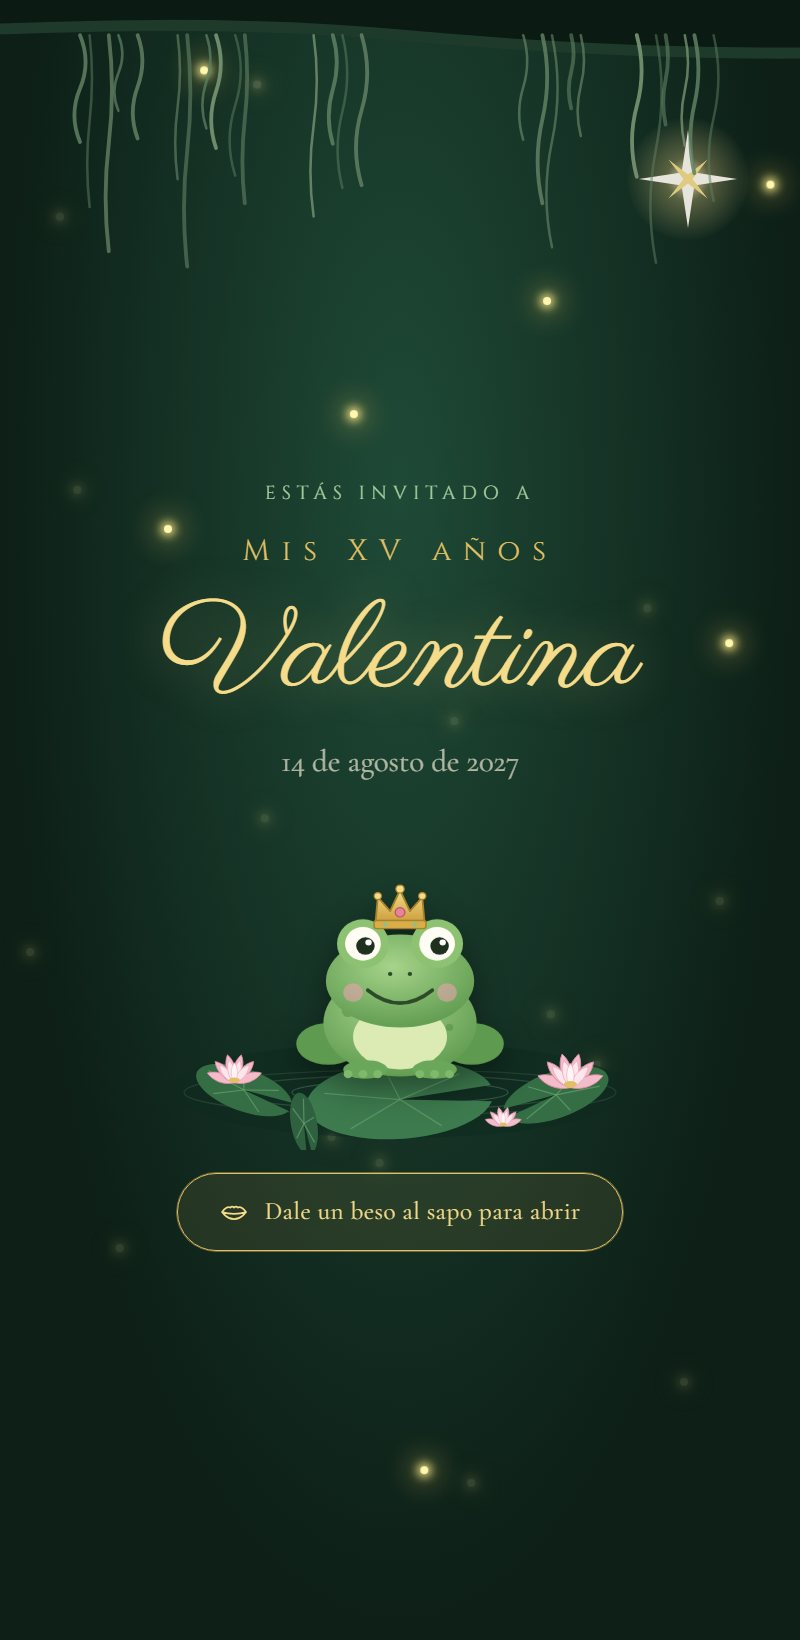
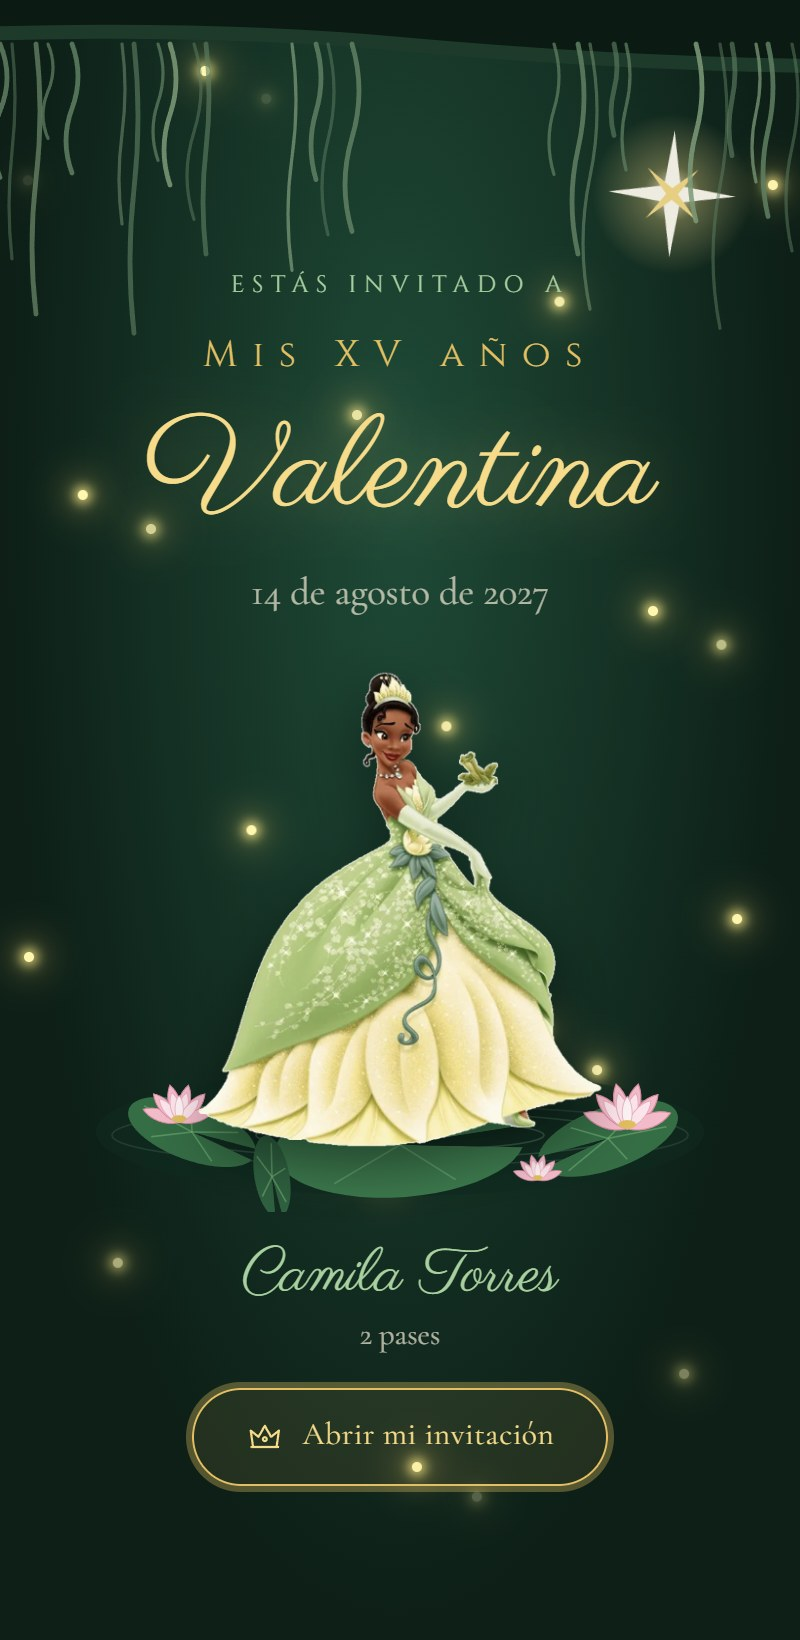
Princesa sapo: nueva captura con Tiana y descripción actualizada

diff --git a/src/config.ts b/src/config.ts
@@ -189,16 +189,16 @@ export const proyectos: Proyecto[] = [
       titulo: "Una Noche en el Bayou",
       tematica: "La princesa y el sapo",
       paquete: "personalizada",
-      palabrasClave: ["princesa", "sapo", "rana", "tiana", "princesa y el sapo", "beso", "pantano", "bayou", "luciérnagas", "nueva orleans", "jazz", "verde", "dorado", "quince", "xv", "15 años"],
+      palabrasClave: ["princesa", "sapo", "rana", "tiana", "princesa y el sapo", "beso", "pantano", "bayou", "naveen", "louis", "caimán", "luciérnagas", "nueva orleans", "jazz", "verde", "dorado", "quince", "xv", "15 años"],
       categorias: ["quinceaneros"],
       descripcion:
-         "Noche en el bayou con la princesa, el sapo y el caimán. 6 bienvenidas (beso al sapo, libro de cuentos, estrella de los deseos…), 5 portadas, música de fondo, juego \"Raspa la fecha\", pase con mesa y QR de ingreso, y panel para enviar cada link por WhatsApp.",
+         "Noche en el bayou con la princesa, el sapo y el caimán ilustrados. 6 bienvenidas (la princesa en el nenúfar, beso al sapo, libro de cuentos, estrella de los deseos…), 5 portadas, lluvia de pétalos, \"Ya Llegaré\" de fondo, juego \"Raspa la fecha\", buzón de deseos, pase con mesa y QR de ingreso, y panel para enviar cada link por WhatsApp.",
       /** Abre con un invitado de ejemplo para mostrar la invitación personalizada. */
-      url: `${demos}/princesa-sapo/#X4HTM6YZ`,
+      url: `${demos}/princesa-sapo/?bienvenida=princesa#X4HTM6YZ`,
       imagen: "proyectos/princesa-sapo.jpg",
       fondo: "bg-menta-suave",
       acento: "text-menta",
-      destacados: ["6 bienvenidas", "Mesa y QR de ingreso", "Raspa la fecha", "Check-in con escáner"],
+      destacados: ["6 bienvenidas", "Mesa y QR de ingreso", "Música de la película", "Check-in con escáner"],
    },
    {
       id: "baby-shower",
